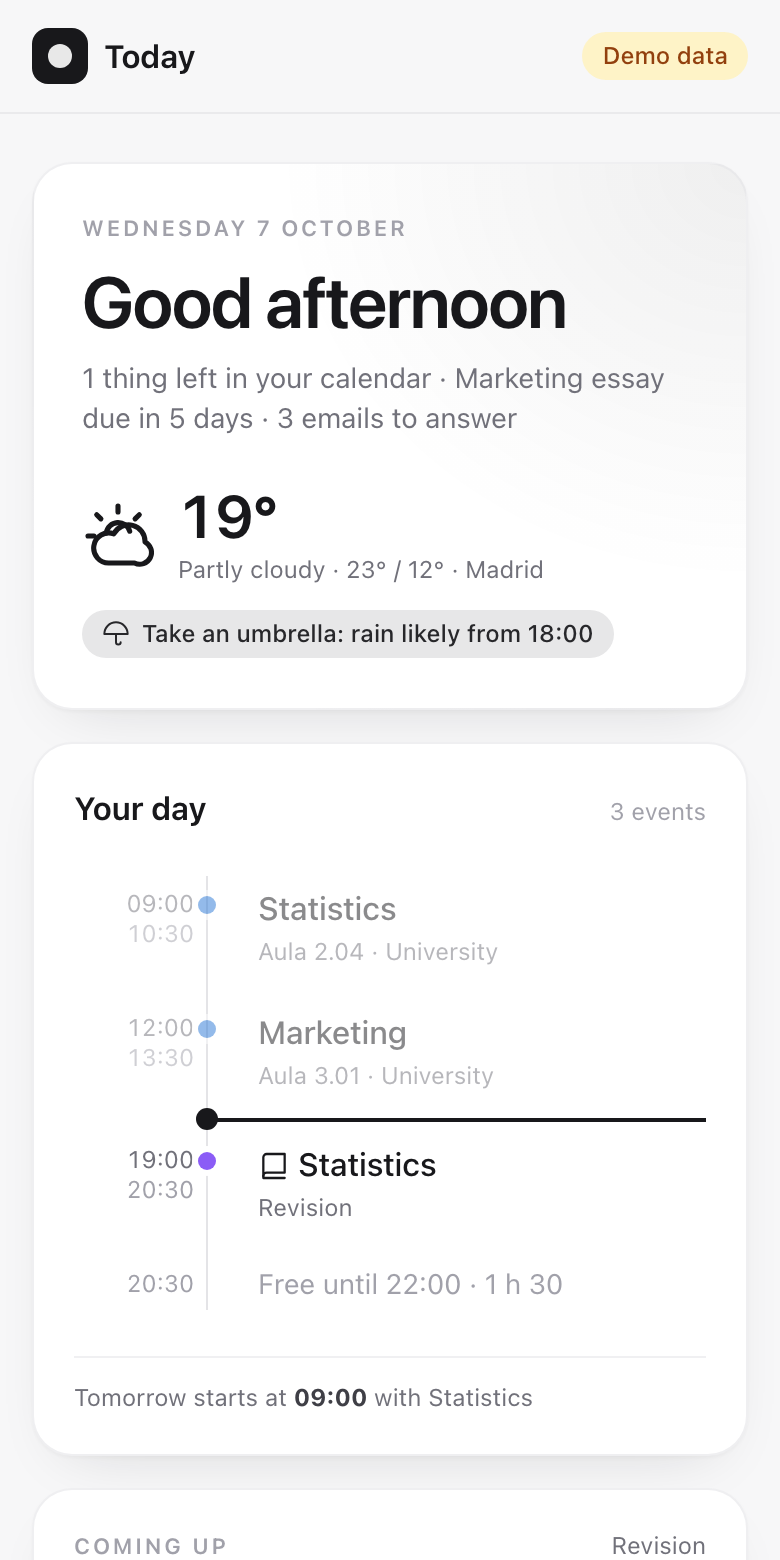
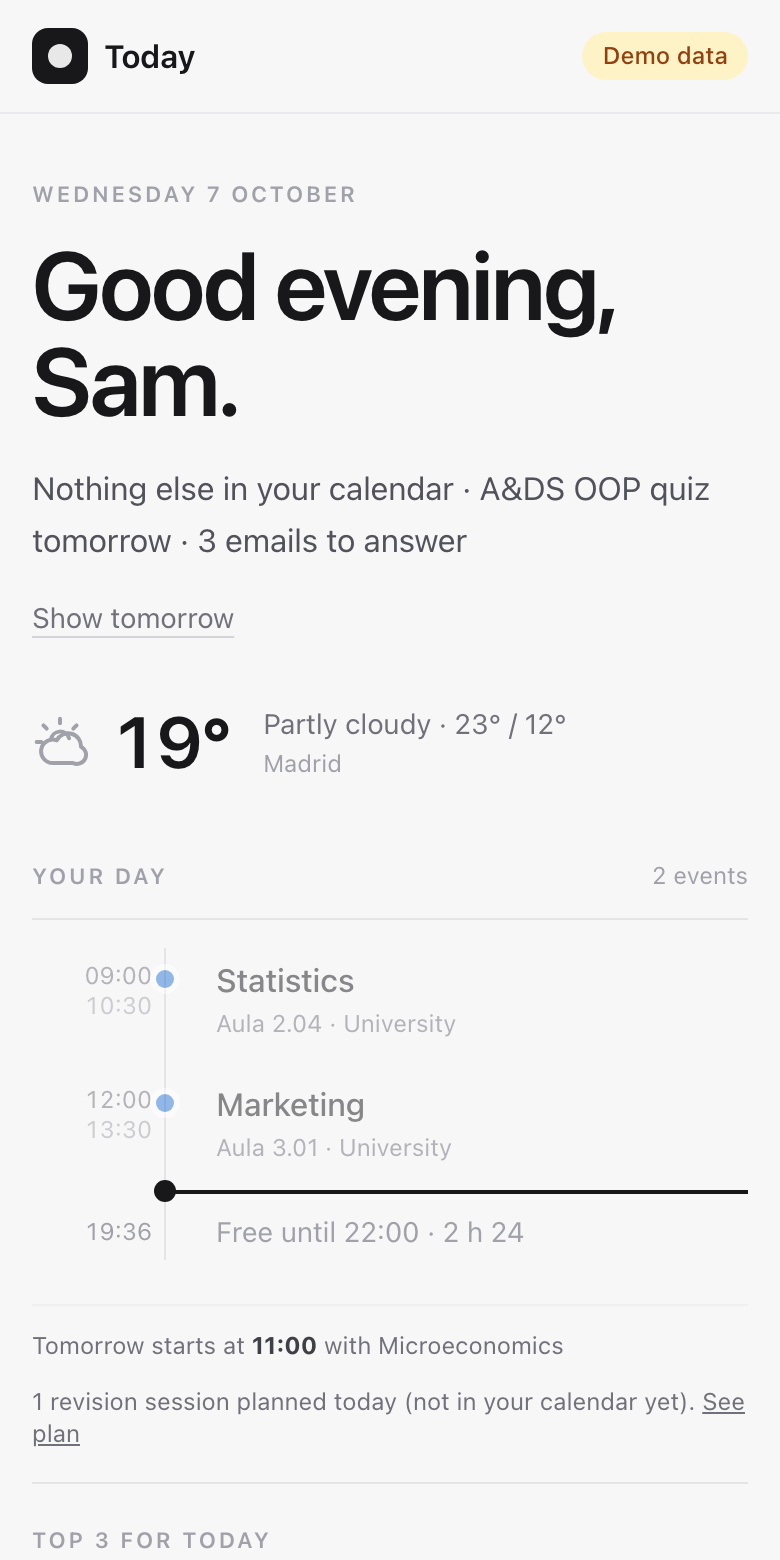
Today page, redesigned to match Revision
No more boxes: a serif greeting with the weather beside it as one large
temperature; leave-by and umbrella as quiet notes under the greeting; "Your
day" as the main column with the timeline; the side cards as light sections
separated by hairlines. Revision sessions and "Coming up" use the course
colours, and Coming up shows big day numbers like the exam list. The
weather becomes a compact row on phones.

diff --git a/static/app.js b/static/app.js
@@ -132,16 +132,17 @@ const ICON = {
 
 function weatherBlock(w, isTomorrow = false) {
   if (!w || w.error) return `<p class="text-sm text-slate-400">${esc(w?.error || "")}</p>`;
+  // A compact row on phones; a large temperature on wider screens.
   return `
-    <div class="flex items-center gap-3">
-      <span class="text-accent">${svg(ICON[w.icon] || ICON.cloud, "w-9 h-9")}</span>
-      <div>
-        <p class="display text-3xl font-semibold text-slate-900 leading-none">${w.temp}°</p>
-        <p class="text-xs text-slate-500 mt-1">${isTomorrow ? "Tomorrow · " : ""}${esc(w.label)} · ${w.high}° / ${w.low}° · ${esc(w.place)}</p>
+    <div class="flex sm:block items-center gap-4">
+      <div class="flex items-center sm:justify-end gap-3">
+        <span class="text-slate-400">${svg(ICON[w.icon] || ICON.cloud, "w-7 h-7 sm:w-8 sm:h-8")}</span>
+        <span class="display text-4xl sm:text-5xl font-semibold text-slate-900 leading-none tabular">${w.temp}°</span>
       </div>
-    </div>
-    ${w.advice ? `<p class="mt-3 inline-flex items-center gap-1.5 rounded-full bg-accent/10 text-slate-800 text-xs font-medium px-2.5 py-1">
-      ${svg(ICON.umbrella, "w-3.5 h-3.5")}${esc(w.advice)}</p>` : ""}`;
+      <div class="sm:mt-2">
+        <p class="text-sm text-slate-500">${isTomorrow ? "Tomorrow · " : ""}${esc(w.label)} · ${w.high}° / ${w.low}°</p>
+        <p class="text-xs text-slate-400 mt-0.5">${esc(w.place)}</p></div>
+    </div>`;
 }
 
 function sessionButtons(id) {
@@ -177,9 +178,11 @@ function timeline(day, now, isTomorrow = false) {
     }
     const e = it.e;
     const isSession = e.session_id != null;
+    const sess = isSession ? (state.sessions || []).find((x) => x.id === e.session_id) : null;
+    const dot = sess ? examColor(sess.exam_id) : e.color;
     rows.push(`<div class="relative flex gap-4 py-2.5 pl-1 ${e.past ? "opacity-50" : ""}">
       <span class="w-14 shrink-0 text-right tabular text-xs text-slate-500 pt-0.5 leading-tight">${hm(e.start)}<br><span class="text-slate-400">${hm(e.end)}</span></span>
-      <span class="tl-dot" style="background:${esc(e.color)}"></span>
+      <span class="tl-dot" style="background:${esc(dot)}"></span>
       <div class="pl-4 min-w-0 flex-1 flex items-start gap-3">
         <div class="min-w-0 flex-1">
           <p class="font-medium text-slate-900 truncate">${isSession ? `<span class="inline-block align-[-3px] text-accent mr-1">${svg(ICON.book, "w-4 h-4")}</span>` : ""}${esc(e.title.replace(/^📚\s*/, ""))}
@@ -201,15 +204,18 @@ function timeline(day, now, isTomorrow = false) {
 
 function comingUp(items) {
   if (!items.length) return `<p class="text-sm text-slate-400">No exams or deadlines in the next two weeks.</p>`;
-  return `<ul class="space-y-3">${items.slice(0, 6).map((i) => `
-    <li class="flex items-center gap-3">
-      <span class="w-11 shrink-0 text-center rounded-xl py-1 ${i.days <= 3 ? "bg-accent text-on-accent" : "bg-slate-100 text-slate-700"}">
-        <span class="display block text-lg font-semibold leading-none">${i.days}</span>
-        <span class="block text-[10px] leading-none mt-0.5 opacity-80">${i.days === 1 ? "day" : "days"}</span></span>
+  return `<ul class="space-y-3.5">${items.slice(0, 6).map((i) => {
+    const color = i.exam_id ? examColor(i.exam_id) : i.color || "rgb(var(--slate-400))";
+    return `<li class="grid grid-cols-[2.75rem_1fr] items-center gap-3">
+      <span class="text-center">
+        <span class="display block text-2xl font-semibold leading-none tabular ${i.days <= 3 ? "text-accent" : "text-slate-900"}">${i.days}</span>
+        <span class="block text-[10px] font-semibold uppercase tracking-[0.14em] text-slate-400 mt-1">${i.days === 1 ? "day" : "days"}</span></span>
       <span class="min-w-0">
-        <span class="block text-sm font-medium text-slate-900 truncate">${esc(i.title)}</span>
-        <span class="block text-xs text-slate-500">${relDay(i.date)}${i.time ? ` · ${i.time}` : ""}</span></span>
-    </li>`).join("")}</ul>`;
+        <span class="flex items-center gap-2"><span class="w-2 h-2 rounded-full shrink-0" style="background:${color}"></span>
+          <span class="text-sm font-medium text-slate-900 truncate">${esc(i.title)}</span></span>
+        <span class="block text-xs text-slate-500 pl-4 mt-0.5">${relDay(i.date)}${i.time ? ` · ${i.time}` : ""}</span></span>
+    </li>`;
+  }).join("")}</ul>`;
 }
 
 function remindersBlock(rs) {
@@ -239,14 +245,13 @@ function emailBlock(m) {
 
 function budgetBlock(b) {
   if (!b || b.error) return "";
-  const line = b.left_cents == null
-    ? `<p class="display text-2xl font-semibold text-slate-900">${money(b.spent_cents)}</p><p class="text-xs text-slate-500 mt-1">spent this month</p>`
-    : `<p class="display text-2xl font-semibold ${b.left_cents < 0 ? "text-red-600" : "text-slate-900"}">${money(Math.abs(b.left_cents))}</p>
-       <p class="text-xs text-slate-500 mt-1">${b.left_cents < 0 ? "over budget this month" : `left this month · about ${money(b.per_day_cents)} a day`}</p>`;
-  return `<section class="card p-5">
-    <div class="flex items-center justify-between mb-2"><h2 class="eyebrow">Money</h2>
+  const big = b.left_cents == null ? money(b.spent_cents) : money(Math.abs(b.left_cents));
+  const line = b.left_cents == null ? "spent this month" : b.left_cents < 0 ? "over budget this month" : `left this month · about ${money(b.per_day_cents)} a day`;
+  return `<section class="py-6 border-t border-slate-200 first:border-t-0 first:pt-1">
+    <div class="flex items-center justify-between mb-3"><h2 class="eyebrow">Money</h2>
       ${window.pywebview?.api?.open_budget ? `<button data-open-budget class="link text-xs">Open Budget</button>` : ""}</div>
-    ${line}</section>`;
+    <p class="display text-3xl font-semibold tabular ${b.left_cents < 0 ? "text-red-600" : "text-slate-900"}">${big}</p>
+    <p class="text-sm text-slate-500 mt-1">${line}</p></section>`;
 }
 
 function top3Block(t, isTomorrow) {
@@ -255,7 +260,7 @@ function top3Block(t, isTomorrow) {
     ${t.items.map((i) => `<label class="flex items-center gap-2.5">
       <input type="checkbox" data-done="${i.position}" ${i.done ? "checked" : ""} ${i.text ? "" : "disabled"} class="w-4 h-4 rounded-full border-slate-300 shrink-0">
       <input data-text="${i.position}" value="${esc(i.text)}" maxlength="120" placeholder="${["", "The one thing that matters most", "Second", "Third"][i.position]}"
-        class="flex-1 min-w-0 bg-transparent border-0 border-b border-transparent focus:border-slate-200 focus:outline-none text-sm py-1 ${i.done ? "line-through text-slate-400" : "text-slate-800"} placeholder:text-slate-300"></label>`).join("")}
+        class="flex-1 min-w-0 bg-transparent border-0 border-b border-transparent focus:border-slate-200 focus:outline-none text-sm py-1 ${i.done ? "line-through text-slate-400" : "text-slate-800"} placeholder:text-slate-400"></label>`).join("")}
     ${t.leftover.length ? `<div class="pt-2 flex flex-wrap items-center gap-1.5 text-xs text-slate-500">${isTomorrow ? "Still open:" : "From yesterday:"}
       ${t.leftover.map((x) => `<button type="button" data-carry="${esc(x)}" class="rounded-full bg-slate-100 hover:bg-slate-200 px-2.5 py-1 text-slate-700">+ ${esc(x)}</button>`).join("")}</div>` : ""}
   </form>`;
@@ -301,16 +306,21 @@ function birthdaysBlock(list) {
     <span class="text-xs ${b.days === 0 ? "text-accent font-semibold" : "text-slate-400"} shrink-0">${b.days === 0 ? "Today" : b.days === 1 ? "Tomorrow" : fmt.weekday.format(parseLocal(b.date + "T00:00"))}</span></li>`).join("")}</ul>`;
 }
 
+function note(icon, html, strong = false) {
+  return `<p class="flex items-center gap-2 text-sm ${strong ? "text-slate-900 font-medium" : "text-slate-600"}">
+    <span class="${strong ? "text-accent" : "text-slate-400"}">${svg(icon, "w-4 h-4")}</span>${html}</p>`;
+}
+
 function leaveByLine(lb, isTomorrow) {
   if (!lb) return "";
   const soon = !isTomorrow && lb.minutes_until <= 15;
   const when = isTomorrow ? "" : lb.minutes_until <= 0 ? " · leave now" : lb.minutes_until < 120 ? ` · in ${duration(lb.minutes_until)}` : "";
-  return `<p class="mt-3 inline-flex items-center gap-1.5 rounded-full ${soon ? "bg-accent text-on-accent" : "bg-slate-100 text-slate-700"} text-xs font-medium px-2.5 py-1">
-    ${svg(ICON.pin, "w-3.5 h-3.5")}Leave by ${hm(lb.leave)}${isTomorrow ? " tomorrow" : ""} for ${esc(lb.title)}${when}</p>`;
+  return note(ICON.pin, `Leave by <b class="font-semibold text-slate-900 tabular">${hm(lb.leave)}</b>${isTomorrow ? " tomorrow" : ""} for ${esc(lb.title)}${when}`, soon);
 }
 
 function sideCard(id, b, isTomorrow) {
-  const card = (title, body, extra = "") => `<section class="card p-5"><div class="flex items-center justify-between mb-3"><h2 class="eyebrow">${title}</h2>${extra}</div>${body}</section>`;
+  const card = (title, body, extra = "") => `<section class="py-6 border-t border-slate-200 first:border-t-0 first:pt-1">
+    <div class="flex items-center justify-between mb-4"><h2 class="eyebrow">${title}</h2>${extra}</div>${body}</section>`;
   switch (id) {
     case "top3": return b.top3 ? card(isTomorrow ? "Top 3 for tomorrow" : "Top 3 for today", top3Block(b.top3, isTomorrow)) : "";
     case "coming_up": return b.coming_up ? card("Coming up", Array.isArray(b.coming_up) ? comingUp(b.coming_up) : `<p class="text-sm text-slate-400">${esc(b.coming_up.error || "")}</p>`, `<a href="#/revision" class="link text-xs">Revision</a>`) : "";
@@ -331,37 +341,40 @@ async function viewToday(root, params) {
   const toCheck = rev?.to_check || [];
   const todaySessions = (rev?.sessions || []).filter((s) => s.start.slice(0, 10) === b.date && !s.event_id && s.status === "planned");
   state.sessions = rev?.sessions || [];
+  if (rev) assignCourseColors(rev.exams);
+  const umbrella = b.weather?.advice;
   root.innerHTML = `
-    <section class="hero card p-6 sm:p-8">
-      <div class="flex flex-col sm:flex-row sm:items-end justify-between gap-6">
-        <div>
-          <p class="eyebrow">${isTomorrow ? `Tomorrow · ${esc(fmt.long.format(target))}` : esc(fmt.long.format(now))}</p>
-          <h1 class="display text-4xl sm:text-5xl font-semibold text-slate-900 mt-2">${esc(b.greeting)}</h1>
-          <p class="text-sm text-slate-500 mt-2">${isTomorrow ? "Here's tomorrow. " : ""}${summaryLine(b, todaySessions)}</p>
-          ${leaveByLine(b.day?.leave_by, isTomorrow)}
-          ${b.evening_available && now.getHours() >= 19 ? `<p class="mt-3"><a href="#/today?view=${isTomorrow ? "today" : "tomorrow"}" class="link underline-offset-2 underline">${isTomorrow ? "Show today instead" : "Show tomorrow"}</a></p>` : ""}
-        </div>
-        <div class="sm:text-right sm:min-w-[14rem]">${weatherBlock(b.weather, isTomorrow)}</div>
+    <header class="grid sm:grid-cols-[1fr_auto] gap-8 items-end pt-2">
+      <div class="min-w-0">
+        <p class="eyebrow">${isTomorrow ? `Tomorrow · ${esc(fmt.long.format(target))}` : esc(fmt.long.format(now))}</p>
+        <h1 class="display text-5xl sm:text-6xl font-semibold text-slate-900 mt-3 leading-[1.02]">${esc(b.greeting)}.</h1>
+        <p class="text-slate-600 mt-4 leading-relaxed max-w-2xl">${isTomorrow ? "Here's tomorrow. " : ""}${summaryLine(b, todaySessions)}</p>
+        ${b.day?.leave_by || umbrella ? `<div class="mt-4 space-y-1.5">${leaveByLine(b.day?.leave_by, isTomorrow)}${umbrella ? note(ICON.umbrella, esc(umbrella)) : ""}</div>` : ""}
+        ${b.evening_available && now.getHours() >= 19 ? `<a href="#/today?view=${isTomorrow ? "today" : "tomorrow"}" class="link inline-block mt-4 underline underline-offset-4 decoration-slate-300">${isTomorrow ? "Show today instead" : "Show tomorrow"}</a>` : ""}
       </div>
-    </section>
+      <div class="sm:text-right">${weatherBlock(b.weather, isTomorrow)}</div>
+    </header>
 
-    ${toCheck.length ? `<section class="card p-5 mt-4">
+    ${toCheck.length ? `<section class="mt-8 py-4 border-y border-slate-200">
       <h2 class="eyebrow mb-3">How did revision go?</h2>
       <ul class="space-y-2">${toCheck.slice(-4).map((s) => `<li class="flex items-center gap-3 text-sm">
+        <span class="w-2 h-2 rounded-full shrink-0" style="background:${examColor(s.exam_id)}"></span>
         <span class="flex-1 min-w-0 text-slate-800 truncate">${esc(s.subject)}${s.kind === "review" ? " review" : ""}
           <span class="text-slate-400">· ${relDay(s.start)} ${hm(s.start)}–${hm(s.end)}</span></span>${sessionButtons(s.id)}</li>`).join("")}</ul>
     </section>` : ""}
 
-    <div class="grid lg:grid-cols-[1.45fr_1fr] gap-4 mt-4">
-      <section class="card p-5 sm:p-6">
-        <div class="flex items-baseline justify-between mb-4">
-          <h2 class="font-semibold text-slate-900">${isTomorrow ? "Tomorrow" : "Your day"}</h2>
+    <div class="grid lg:grid-cols-[minmax(0,1.5fr)_minmax(0,1fr)] gap-x-14 gap-y-4 mt-10">
+      <section>
+        <div class="flex items-baseline justify-between pb-3 mb-2 border-b border-slate-200">
+          <h2 class="eyebrow">${isTomorrow ? "Tomorrow" : "Your day"}</h2>
           ${b.day.events ? `<span class="text-xs text-slate-400">${plural(b.day.events.filter((e) => !e.all_day).length, "event", "events")}</span>` : ""}
         </div>
         ${timeline(b.day, b.now, isTomorrow)}
         ${todaySessions.length ? `<p class="text-xs text-slate-500 mt-3">${plural(todaySessions.length, "revision session", "revision sessions")} planned today (not in your calendar yet). <a href="#/revision" class="underline">See plan</a></p>` : ""}
       </section>
-      <div class="space-y-4">${b.sections.filter((s) => s.on).map((s) => sideCard(s.id, b, isTomorrow)).join("")}</div>
+      <aside class="lg:border-l lg:border-slate-200 lg:pl-10 border-t border-slate-200 pt-4 lg:border-t-0 lg:pt-0">
+        ${b.sections.filter((s) => s.on).map((s) => sideCard(s.id, b, isTomorrow)).join("")}
+      </aside>
     </div>`;
 
   $("[data-allow-calendar]", root)?.addEventListener("click", async () => {
